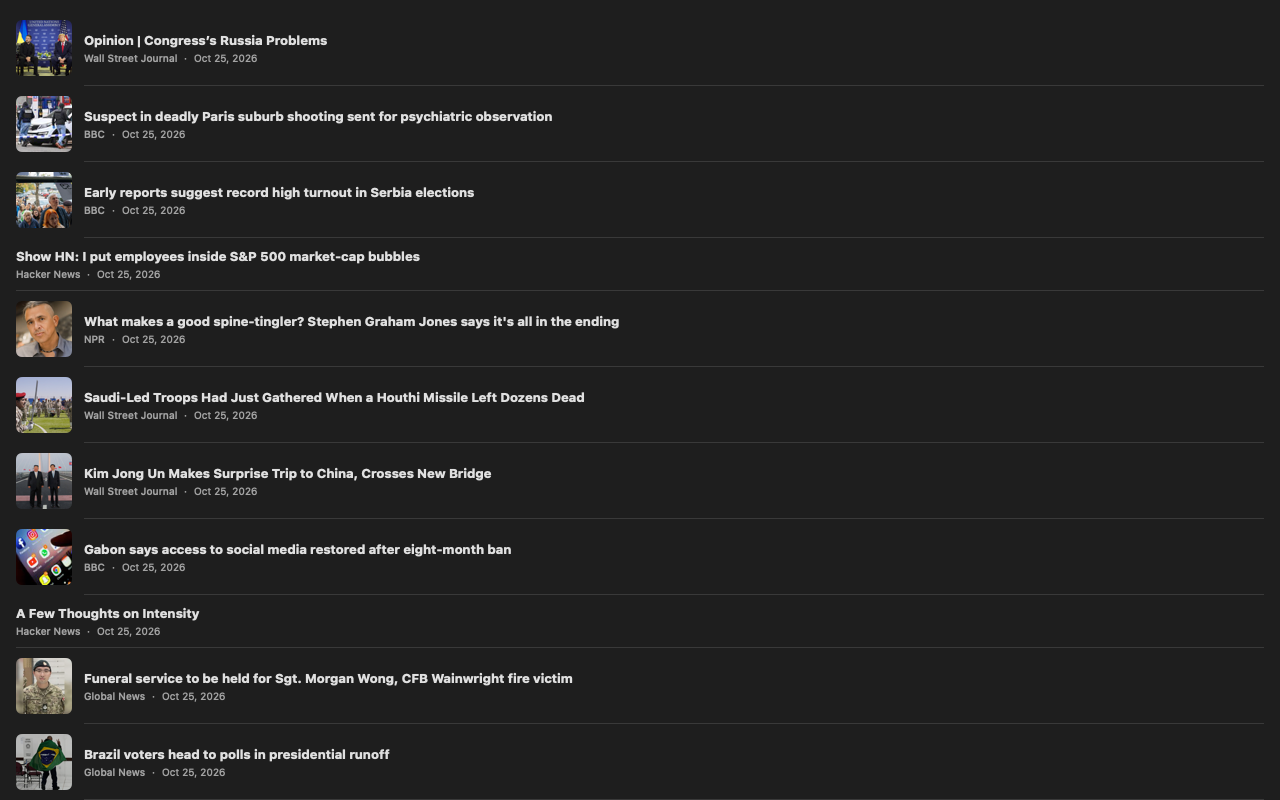
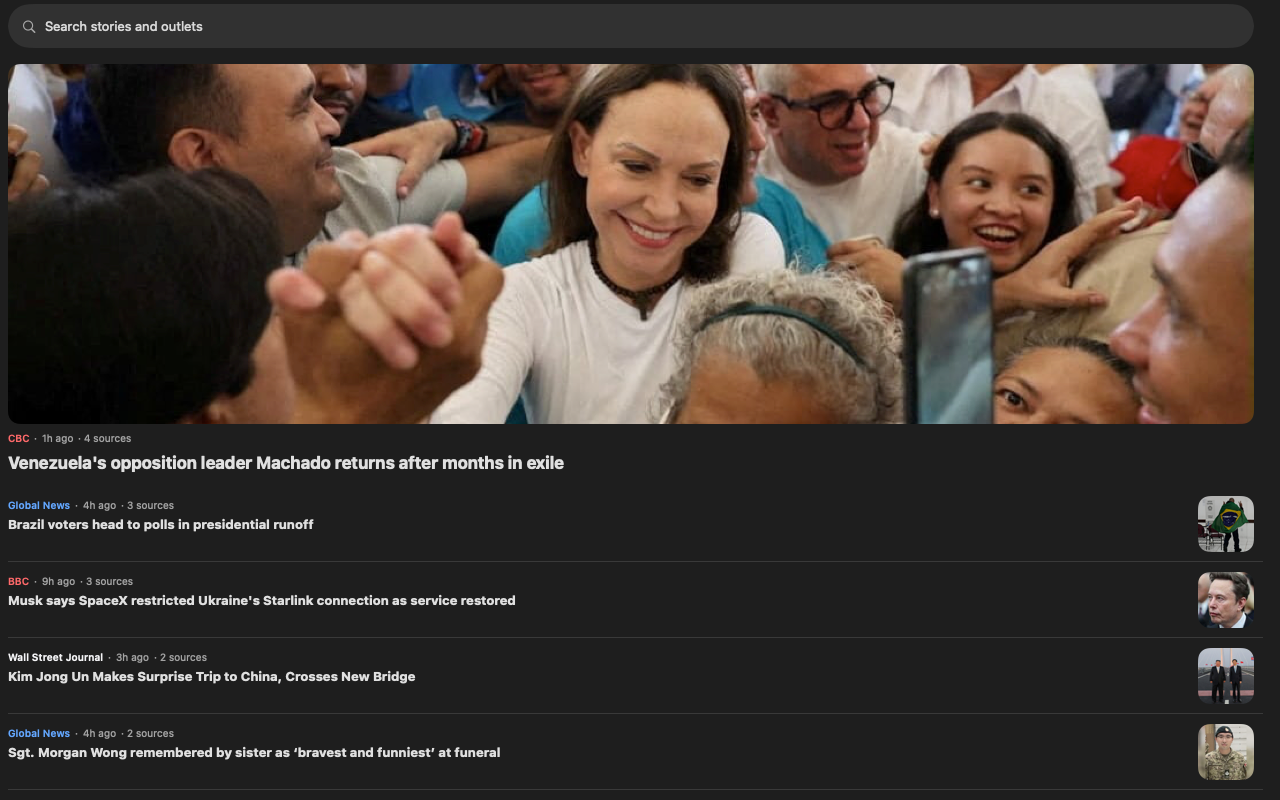
bugle 1.17.0: every outlet in its own color; one outlet on screen (one feed, a search, or a tap in Feeds) tints the whole app, HN orange, BBC red. Smaller landing headline, hero picture capped on wide Macs
Claude-Session: https://claude.ai/code/session_01WK635nmVgnoRhWMPtJwkpw

diff --git a/bugle/ios/Sources/Shared/Views/EntryListView.swift b/bugle/ios/Sources/Shared/Views/EntryListView.swift
@@ -32,7 +32,7 @@ struct EntryListView: View {
             Group {
                 NavigationStack(path: $path) { home }
                     .tabItem { Label("Home", systemImage: "newspaper") }.tag(0)
-                ManageFeedsView(store: store, library: library)
+                ManageFeedsView(store: store, library: library) { query = $0.title; tab = 0 }
                     .tabItem { Label("Feeds", systemImage: "list.bullet.rectangle") }.tag(1)
                 SettingsView(store: store, account: account, library: library)
                     .tabItem { Label("Settings", systemImage: "gearshape") }.tag(2)
@@ -45,6 +45,7 @@ struct EntryListView: View {
         // iPad puts tabs at the top in regular width; compact keeps the bar at the bottom.
         .environment(\.horizontalSizeClass, .compact)
         #endif
+        .tint(accent)
         .task(id: store.feeds) {
             if account.signedIn { try? await account.push(store.feeds) }   // keep the account's copy current
             await feed.refresh(feeds: store.feeds)
@@ -55,11 +56,24 @@ struct EntryListView: View {
         }
     }
 
-    private var home: some View {
-        // Search matches headlines and outlet names ("BBC" shows only BBC). While searching there is no hero.
+    /// Search matches headlines and outlet names ("BBC" shows only BBC). One row per story (the same story from
+    /// several outlets is grouped, Ground News style); Today's biggest lead.
+    private var shown: [Story] {
         let q = query.trimmingCharacters(in: .whitespaces)
-        // One row per story (the same story from several outlets is grouped, Ground News style); Today's biggest lead.
-        let shown = q.isEmpty ? Coverage.today(feed.stories) : feed.stories.filter { $0.entries.contains { $0.title.localizedStandardContains(q) || $0.sourceTitle.localizedStandardContains(q) } }
+        return q.isEmpty ? Coverage.today(feed.stories) : feed.stories.filter { $0.entries.contains { $0.title.localizedStandardContains(q) || $0.sourceTitle.localizedStandardContains(q) } }
+    }
+
+    /// Every story on Home from one outlet (one feed followed, or a search for it): the app wears its color, HN
+    /// orange, BBC red. Several outlets: Bugle blue.
+    private var accent: Color {
+        let sources = Set(shown.map(\.lead.sourceTitle))
+        return sources.count == 1 ? Outlet.color(sources.first!) : .bugleAccent
+    }
+
+    private var home: some View {
+        // While searching there is no hero.
+        let q = query.trimmingCharacters(in: .whitespaces)
+        let shown = self.shown
         // The hero is the newest story with a picture among the first few; everything else is a row.
         let hero = q.isEmpty ? shown.prefix(5).first { $0.lead.imageURL != nil } : nil
         return List {
@@ -130,7 +144,7 @@ struct EntryRow: View {
     }
 }
 
-/// "BBC · 2h ago" above a headline; the outlet in the accent, a bookmark when saved.
+/// "BBC · 2h ago" above a headline; the outlet in its own color, a bookmark when saved.
 struct Kicker: View {
     let entry: JournalEntry
     let saved: Bool
@@ -139,7 +153,7 @@ struct Kicker: View {
     var body: some View {
         let ago = RelativeTime.short(entry.date)
         HStack(spacing: 4) {
-            if !entry.sourceTitle.isEmpty { Text(entry.sourceTitle).fontWeight(.semibold).foregroundStyle(Color.bugleAccent) }
+            if !entry.sourceTitle.isEmpty { Text(entry.sourceTitle).fontWeight(.semibold).foregroundStyle(Outlet.color(entry.sourceTitle)) }
             if !entry.sourceTitle.isEmpty && !ago.isEmpty { Text("·").foregroundStyle(.secondary) }
             Text(ago).foregroundStyle(.secondary)
             if sources > 1 { Text("· \(sources) sources").foregroundStyle(.secondary) }
@@ -166,12 +180,16 @@ struct HeroRow: View {
     var body: some View {
         RowLink(entry: entry) {
             VStack(alignment: .leading, spacing: 8) {
-                AsyncImage(url: entry.imageURL) { phase in
-                    if case .success(let image) = phase { image.resizable().aspectRatio(contentMode: .fill) } else { Color.bugleAccent.opacity(0.12) }
-                }
-                .frame(maxWidth: .infinity)
-                .aspectRatio(16 / 9, contentMode: .fit)
-                .clipShape(RoundedRectangle(cornerRadius: 12, style: .continuous))
+                // 16:9 on a phone; a wide Mac window caps it at 360 points so the picture never fills the screen.
+                Color.clear
+                    .aspectRatio(16 / 9, contentMode: .fit)
+                    .frame(maxWidth: .infinity, maxHeight: 360)
+                    .overlay {
+                        AsyncImage(url: entry.imageURL) { phase in
+                            if case .success(let image) = phase { image.resizable().aspectRatio(contentMode: .fill) } else { Outlet.color(entry.sourceTitle).opacity(0.12) }
+                        }
+                    }
+                    .clipShape(RoundedRectangle(cornerRadius: 12, style: .continuous))
                 Kicker(entry: entry, saved: library.isSaved(entry), sources: story?.publishers ?? 1)
                 Text(Self.headline(entry))
                     .font(.title2.weight(.bold))
@@ -283,7 +301,7 @@ private struct EntryThumbnail: View {
     private var outlet: some View {
         let host = URL(string: page)?.host
         return ZStack {
-            Color.bugleAccent.opacity(0.12)
+            Outlet.color(source).opacity(0.12)
             if let host, let touch = URL(string: "https://\(host)/apple-touch-icon.png"), let fav = URL(string: "https://\(host)/favicon.ico") {
                 AsyncImage(url: touch) { phase in
                     switch phase {
@@ -302,7 +320,7 @@ private struct EntryThumbnail: View {
     }
 
     private var monogram: some View {
-        Text(Self.initials(source)).font(.system(size: 17, weight: .bold)).foregroundStyle(Color.bugleAccent)
+        Text(Self.initials(source)).font(.system(size: 17, weight: .bold)).foregroundStyle(Outlet.color(source))
     }
 
     /// "BBC" stays BBC; "Hacker News" is HN; "The Province" is P. Mirrors `initials` in web/read.html.

diff --git a/bugle/web/reader.css b/bugle/web/reader.css
@@ -26,8 +26,10 @@ button.row:hover { background: color-mix(in srgb, var(--text) 4%, transparent); 
 .row b.title { white-space: normal; max-height: 48px; }   /* two lines, like Apple News; fitTitles picks a cut that fits */
 .row small { display: block; color: var(--sub); font-size: 13px; line-height: 18px; white-space: nowrap; overflow: hidden; text-overflow: ellipsis; }
 .row .thumb { flex: 0 0 56px; width: 56px; height: 56px; object-fit: cover; border-radius: 12px; background: var(--line); }
-.row .mono { display: flex; align-items: center; justify-content: center; font-size: 17px; font-weight: 700; color: var(--accent);
-  background: color-mix(in srgb, var(--accent) 12%, transparent); }
+.row .mono { --o: var(--c, var(--accent)); display: flex; align-items: center; justify-content: center; font-size: 17px; font-weight: 700; color: var(--o);
+  background: color-mix(in srgb, var(--o) 12%, transparent); }
+@media (prefers-color-scheme: dark) { :root:not([data-theme="light"]) .row .mono { --o: var(--cd, var(--accent)); } }
+:root[data-theme="dark"] .row .mono { --o: var(--cd, var(--accent)); }
 .row .chev { color: var(--sub); flex: none; font-size: 20px; }
 a.row { text-decoration: none; }
 a.row:hover { text-decoration: none; background: color-mix(in srgb, var(--text) 4%, transparent); }
@@ -75,7 +77,13 @@ a.row:hover { text-decoration: none; background: color-mix(in srgb, var(--text) 
 .plain .row { padding: var(--sp-3) 20px; }
 .plain ul.rows li + li { background: linear-gradient(var(--line), var(--line)) 20px 0 / calc(100% - 40px) 1px no-repeat; }
 .kick { display: block; font-size: 13px; line-height: 18px; color: var(--sub); white-space: nowrap; overflow: hidden; text-overflow: ellipsis; margin-bottom: 2px; }
-.kick .src { color: var(--accent); font-weight: 600; }
+.kick .src { color: var(--c, var(--accent)); font-weight: 600; }   /* the outlet's own color (Coverage.paint) */
+@media (prefers-color-scheme: dark) { :root:not([data-theme="light"]) .kick .src { color: var(--cd, var(--accent)); } }
+:root[data-theme="dark"] .kick .src { color: var(--cd, var(--accent)); }
+/* Every story on Home from one outlet (one feed followed, or a search for it): the whole reader takes its color. */
+:root[data-outlet] { --accent: var(--c); }
+@media (prefers-color-scheme: dark) { :root[data-outlet]:not([data-theme="light"]) { --accent: var(--cd); } }
+:root[data-outlet][data-theme="dark"] { --accent: var(--cd); }
 .kick .saved { color: var(--accent); }
 .row.read .title, .hero.read h3 { color: var(--sub); }
 .row.read .thumb { opacity: .6; }

diff --git a/bugle/web/coverage.js b/bugle/web/coverage.js
@@ -13,6 +13,18 @@ var Coverage = (function () {
     'The Province': O(0, 'Postmedia', 'Postmedia BC'), 'Hacker News': O(null, 'Y Combinator', 'Hacker News'),
     'Daring Fireball': O(null, 'John Gruber (independent)', 'Daring Fireball'), 'Journal': O(null, "Joshua's blog", 'Journal')
   };
+  // Each outlet's own color, [light, dark], each at least 4.5:1 on white and on black (test.mjs checks). Black brands
+  // (WSJ, Daily Wire) turn white in dark mode; HN orange is darkened in light mode so a 13 pt name stays readable.
+  var BRAND = {
+    'Hacker News': ['#C24E00', '#FF7A1A'], 'BBC': ['#BB1919', '#FF6B6B'], 'CBC': ['#CC0000', '#FF6B6B'],
+    'The Guardian': ['#052962', '#7FA8F0'], 'NPR': ['#1D6AA5', '#5AAEF0'], 'Global News': ['#1565C0', '#64A8FF'],
+    'NBC News': ['#0A66B0', '#4CB6F5'], 'Wall Street Journal': ['#111111', '#F5F5F7'], 'National Post': ['#005A9C', '#63A4E0'],
+    'Fox News': ['#003366', '#6FA3E0'], 'NY Post': ['#CC0000', '#FF6B6B'], 'NY Post Opinion': ['#CC0000', '#FF6B6B'],
+    'Daily Wire': ['#111111', '#F5F5F7'], 'Vancouver Sun': ['#12599E', '#6AA6E6'], 'The Province': ['#C8102E', '#FF6B78'],
+    'Daring Fireball': ['#4A525A', '#A3ABB3'], 'Journal': ['#0059B3', '#5AA9FF']
+  };
+  // Paint an element in an outlet's color: --c and --cd, which reader.css picks between for light and dark.
+  function paint(node, source) { var b = BRAND[source]; if (b) { node.style.setProperty('--c', b[0]); node.style.setProperty('--cd', b[1]); } return node; }
   var SIDES = ['left', 'center', 'right'], TITLES = { left: 'Left', center: 'Center', right: 'Right' };
   var STOP = new Set(('the a an of to in on for and or as at by is are was with after over from amid says say new this that it its his her ' +
     'their they we you but not has have had will would could should about into more than what when who how why been being were where which').split(' '));
@@ -88,5 +100,5 @@ var Coverage = (function () {
     return box;
   }
   function about(feed) { var o = outlet(feed.title); return o ? (o.lean == null ? 'Not rated' : leanLabel(o.lean)) + ' · ' + o.owner : feed.url; }
-  return { cluster: cluster, today: today, readingLean: readingLean, bar: bar, section: section, about: about };
+  return { cluster: cluster, today: today, BRAND: BRAND, OUTLETS: OUTLETS, paint: paint, readingLean: readingLean, bar: bar, section: section, about: about };
 })();

diff --git a/bugle/web/reader.js b/bugle/web/reader.js
@@ -61,6 +61,10 @@ function renderEntries() {
   var q = document.getElementById('q').value.trim().toLowerCase();
   var shown = (q ? stories.filter(function (st) { return st.entries.some(function (e) { return (e.title + ' ' + e.source).toLowerCase().indexOf(q) >= 0; }); }) : Coverage.today(stories))
     .map(function (st) { return st.lead; });
+  // One outlet on screen: the reader wears its color (HN orange, BBC red); several: Bugle blue.
+  var root = document.documentElement, only = shown.length && shown.every(function (e) { return e.source === shown[0].source; }) ? shown[0].source : null;
+  if (only && Coverage.BRAND[only]) { Coverage.paint(root, only); root.dataset.outlet = only; }
+  else { delete root.dataset.outlet; root.style.removeProperty('--c'); root.style.removeProperty('--cd'); }   // or unknown outlets inherit it
   renderStories(document.getElementById('entries'), shown, open, !q,
     q ? 'No stories match \u201C' + q + '\u201D.' : 'No entries yet. Add a feed or pull to refresh.');
 }
@@ -73,6 +77,9 @@ function renderFeeds() {
     var row = el('div', 'row');
     var txt = el('span', 'txt');
     txt.appendChild(el('b', '', f.title)); txt.appendChild(el('small', '', Coverage.about(f)));
+    // Tap an outlet to read just it: Home searches for it and takes its color.
+    txt.style.cursor = 'pointer';
+    txt.onclick = function () { document.getElementById('q').value = f.title; location.hash = '#home'; renderEntries(); };
     var rm = el('button', 'act', 'Remove');
     rm.setAttribute('aria-label', 'Remove ' + f.title);
     rm.onclick = function () { feeds.splice(i, 1); save(); renderFeeds(); refresh(); };

diff --git a/bugle/ios/Sources/Shared/Models/Coverage.swift b/bugle/ios/Sources/Shared/Models/Coverage.swift
@@ -1,4 +1,4 @@
-import Foundation
+import SwiftUI
 
 /// Ground News-style coverage, ported from Sidewise (`sidewise/src/stories.js`): the same story grouped across
 /// outlets, each outlet's lean and owner, a left / center / right count per story, and blindspots (a story only
@@ -32,6 +32,19 @@ struct Outlet {
     ]
 
     static func of(_ source: String) -> Outlet? { known[source] }
+
+    /// Each outlet's own color (light, dark), the same table as web/coverage.js, where test.mjs checks every pair is
+    /// 4.5:1 on white and on black. Anything else gets Bugle blue.
+    static let brand: [String: (light: UInt32, dark: UInt32)] = [
+        "Hacker News": (0xC24E00, 0xFF7A1A), "BBC": (0xBB1919, 0xFF6B6B), "CBC": (0xCC0000, 0xFF6B6B),
+        "The Guardian": (0x052962, 0x7FA8F0), "NPR": (0x1D6AA5, 0x5AAEF0), "Global News": (0x1565C0, 0x64A8FF),
+        "NBC News": (0x0A66B0, 0x4CB6F5), "Wall Street Journal": (0x111111, 0xF5F5F7), "National Post": (0x005A9C, 0x63A4E0),
+        "Fox News": (0x003366, 0x6FA3E0), "NY Post": (0xCC0000, 0xFF6B6B), "NY Post Opinion": (0xCC0000, 0xFF6B6B),
+        "Daily Wire": (0x111111, 0xF5F5F7), "Vancouver Sun": (0x12599E, 0x6AA6E6), "The Province": (0xC8102E, 0xFF6B78),
+        "Daring Fireball": (0x4A525A, 0xA3ABB3), "Journal": (0x0059B3, 0x5AA9FF),
+    ]
+
+    static func color(_ source: String) -> Color { brand[source].map { Color(light: $0.light, dark: $0.dark) } ?? .bugleAccent }
 
     static func leanLabel(_ lean: Int) -> String {
         ["Left", "Leans left", "Center", "Leans right", "Right"][max(0, min(4, lean + 2))]

diff --git a/bugle/web/read.html b/bugle/web/read.html
@@ -8,7 +8,7 @@
 <meta name="theme-color" content="#0059B3">
 <link rel="icon" href="icon.svg">
 <link rel="stylesheet" href="style.css">
-<link rel="stylesheet" href="reader.css?v=1.16.1">
+<link rel="stylesheet" href="reader.css?v=1.17.0">
   <link rel="manifest" href="/manifest.webmanifest">
   <link rel="apple-touch-icon" href="/icon-192.png">
   <meta name="apple-mobile-web-app-capable" content="yes">
@@ -93,13 +93,13 @@
   <a href="#settings" data-tab="settings"><svg viewBox="0 0 24 24" fill="none" stroke="currentColor" stroke-width="2"><circle cx="12" cy="12" r="3"/><path d="M12 2v3M12 19v3M4.2 4.2l2.1 2.1M17.7 17.7l2.1 2.1M2 12h3M19 12h3M4.2 19.8l2.1-2.1M17.7 6.3l2.1-2.1"/></svg>Settings</a>
 </nav>
 
-<script src="headline.js?v=1.16.1"></script>
-<script src="parse.js?v=1.16.1"></script>
-<script src="rows.js?v=1.16.1"></script>
-<script src="coverage.js?v=1.16.1"></script>
-<script src="reader.js?v=1.16.1"></script>
-<script src="library.js?v=1.16.1"></script>
-<script src="account.js?v=1.16.1"></script>
+<script src="headline.js?v=1.17.0"></script>
+<script src="parse.js?v=1.17.0"></script>
+<script src="rows.js?v=1.17.0"></script>
+<script src="coverage.js?v=1.17.0"></script>
+<script src="reader.js?v=1.17.0"></script>
+<script src="library.js?v=1.17.0"></script>
+<script src="account.js?v=1.17.0"></script>
 
   <script>if('serviceWorker' in navigator)addEventListener('load',()=>navigator.serviceWorker.register('/sw.js'));</script>
 </body>

diff --git a/bugle/ios/Sources/Shared/Views/ManageFeedsView.swift b/bugle/ios/Sources/Shared/Views/ManageFeedsView.swift
@@ -3,6 +3,8 @@ import SwiftUI
 struct ManageFeedsView: View {
     @ObservedObject var store: FeedStore
     @ObservedObject var library: Library
+    /// Tap an outlet to read just it: Home searches for it and takes its color.
+    var open: (Feed) -> Void = { _ in }
     @State private var newFeed = ""
     @State private var showError = false
 
@@ -36,9 +38,11 @@ struct ManageFeedsView: View {
 
                 Section("Following") {
                     ForEach(store.feeds) { feed in
-                        VStack(alignment: .leading, spacing: 2) {
-                            Text(feed.title).font(.body)
-                            Text(Self.about(feed)).font(.caption).foregroundStyle(.secondary).lineLimit(1)
+                        Button { open(feed) } label: {
+                            VStack(alignment: .leading, spacing: 2) {
+                                Text(feed.title).font(.body).foregroundStyle(Outlet.color(feed.title))
+                                Text(Self.about(feed)).font(.caption).foregroundStyle(.secondary).lineLimit(1)
+                            }
                         }
                     }
                     .onDelete(perform: store.remove)

diff --git a/bugle/ios/Sources/Shared/Models/Theme.swift b/bugle/ios/Sources/Shared/Models/Theme.swift
@@ -4,3 +4,22 @@ extension Color {
     // Matches --accent in brand/tokens.css (#0059B3) so the brand color is the same everywhere.
     static let bugleAccent = Color(red: 0.0, green: 0.349, blue: 0.702)
 }
+
+extension Color {
+    /// One color per appearance, from 0xRRGGBB values (outlet colors in Outlet.brand).
+    init(light: UInt32, dark: UInt32) {
+        func rgb(_ v: UInt32) -> (CGFloat, CGFloat, CGFloat) { (CGFloat(v >> 16 & 0xFF) / 255, CGFloat(v >> 8 & 0xFF) / 255, CGFloat(v & 0xFF) / 255) }
+        let (l, d) = (rgb(light), rgb(dark))
+        #if os(macOS)
+        self.init(nsColor: NSColor(name: nil) { a in
+            let c = a.bestMatch(from: [.darkAqua, .aqua]) == .darkAqua ? d : l
+            return NSColor(srgbRed: c.0, green: c.1, blue: c.2, alpha: 1)
+        })
+        #else
+        self.init(uiColor: UIColor { t in
+            let c = t.userInterfaceStyle == .dark ? d : l
+            return UIColor(red: c.0, green: c.1, blue: c.2, alpha: 1)
+        })
+        #endif
+    }
+}

diff --git a/bugle/web/rows.js b/bugle/web/rows.js
@@ -31,7 +31,7 @@ function ago(d, now) {
 
 function kicker(e) {
   var k = el('small', 'kick');
-  if (e.source) k.appendChild(el('span', 'src', e.source));
+  if (e.source) k.appendChild(window.Coverage ? Coverage.paint(el('span', 'src', e.source), e.source) : el('span', 'src', e.source));
   var when = ago(e.date);
   if (e.source && when) k.appendChild(document.createTextNode(' · '));
   if (when) k.appendChild(document.createTextNode(when));
@@ -45,6 +45,7 @@ function kicker(e) {
 // own icon, else its initials.
 function thumb(e) {
   var mono = el('span', 'thumb mono', initials(e.source));
+  if (window.Coverage) Coverage.paint(mono, e.source);   // the outlet's color, like its name above the headline
   mono.dataset.page = e.url;
   if (!e.image) return mono;
   var img = el('img', 'thumb');

diff --git a/bugle/web/landing.css b/bugle/web/landing.css
@@ -17,7 +17,7 @@ a { color: inherit; }
 
 h1, h2, h3, .label { font-family: var(--display); font-weight: 700; }
 h1, h2, h3 { text-wrap: balance; }
-h1 { font-size: clamp(44px, 9vw, 112px); line-height: 1; letter-spacing: -.03em; }   /* a headline, not the name: the label above carries that */
+h1 { font-size: clamp(40px, 6.5vw, 88px); line-height: 1.05; letter-spacing: -.03em; }   /* a headline, not the name: the label above carries that */
 h2 { font-size: clamp(52px, 7.4vw, 112px); line-height: .9; }
 h3 { font-size: 30px; line-height: 32px; }
 .label { font-size: 14px; line-height: 16px; color: var(--sub); margin-bottom: var(--sp-4); }

diff --git a/bugle/web/sw.js b/bugle/web/sw.js
@@ -1,6 +1,6 @@
 // ponytail: network-first for pages, cache-first for the hashed assets they name.
 // Bump CACHE to evict everything a previous version stored.
-const CACHE = "bugle-v22";
+const CACHE = "bugle-v23";
 const FILES = ["/", "/index.html","/privacy.html","/read.html","/support.html", "/manifest.webmanifest"];
 
 self.addEventListener("install", e => {

diff --git a/bugle/web/index.html b/bugle/web/index.html
@@ -24,7 +24,7 @@
 <meta name="twitter:image" content="https://bugle.jaybulb.com/og.png?v=2">
 <link rel="preload" href="fonts/BugleDisplay-Bold.woff2" as="font" type="font/woff2" crossorigin>
 <link rel="stylesheet" href="tokens.css">
-<link rel="stylesheet" href="landing.css?v=2">
+<link rel="stylesheet" href="landing.css?v=3">
 </head>
 <body>
 
